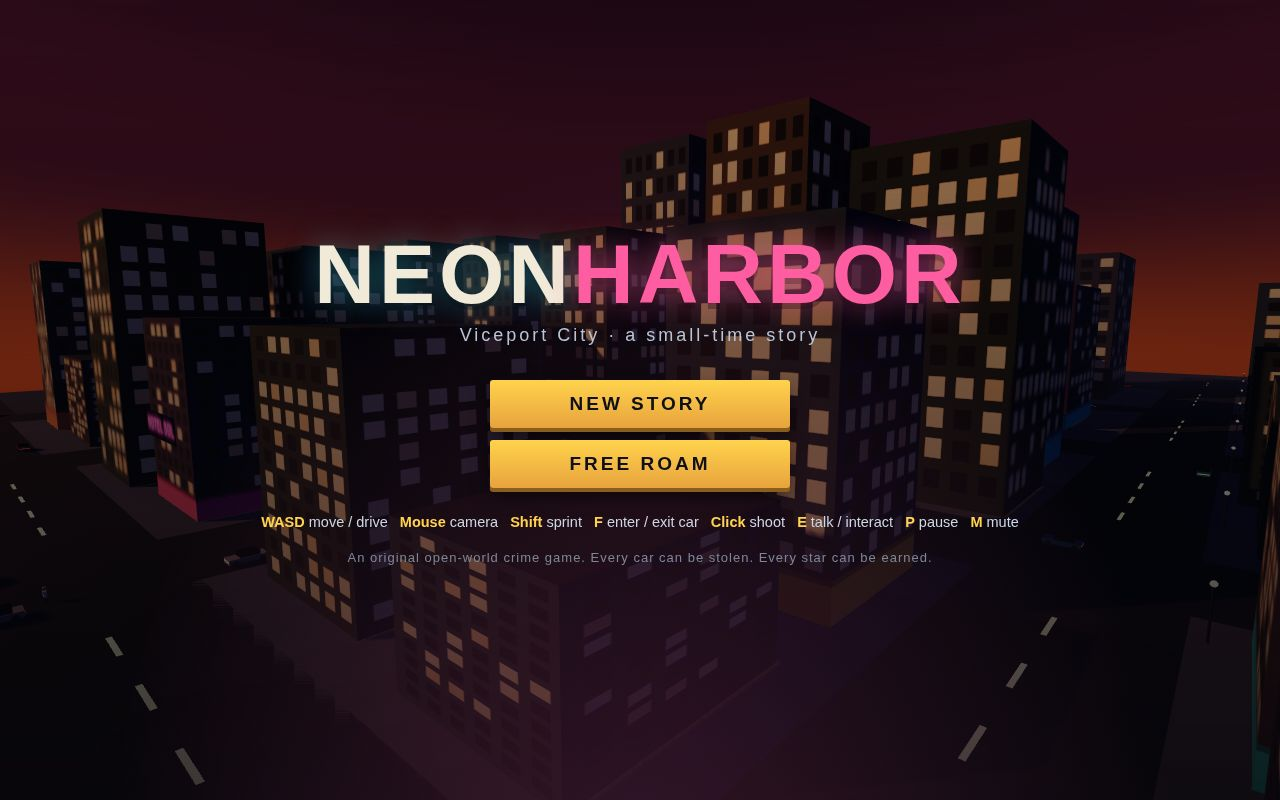
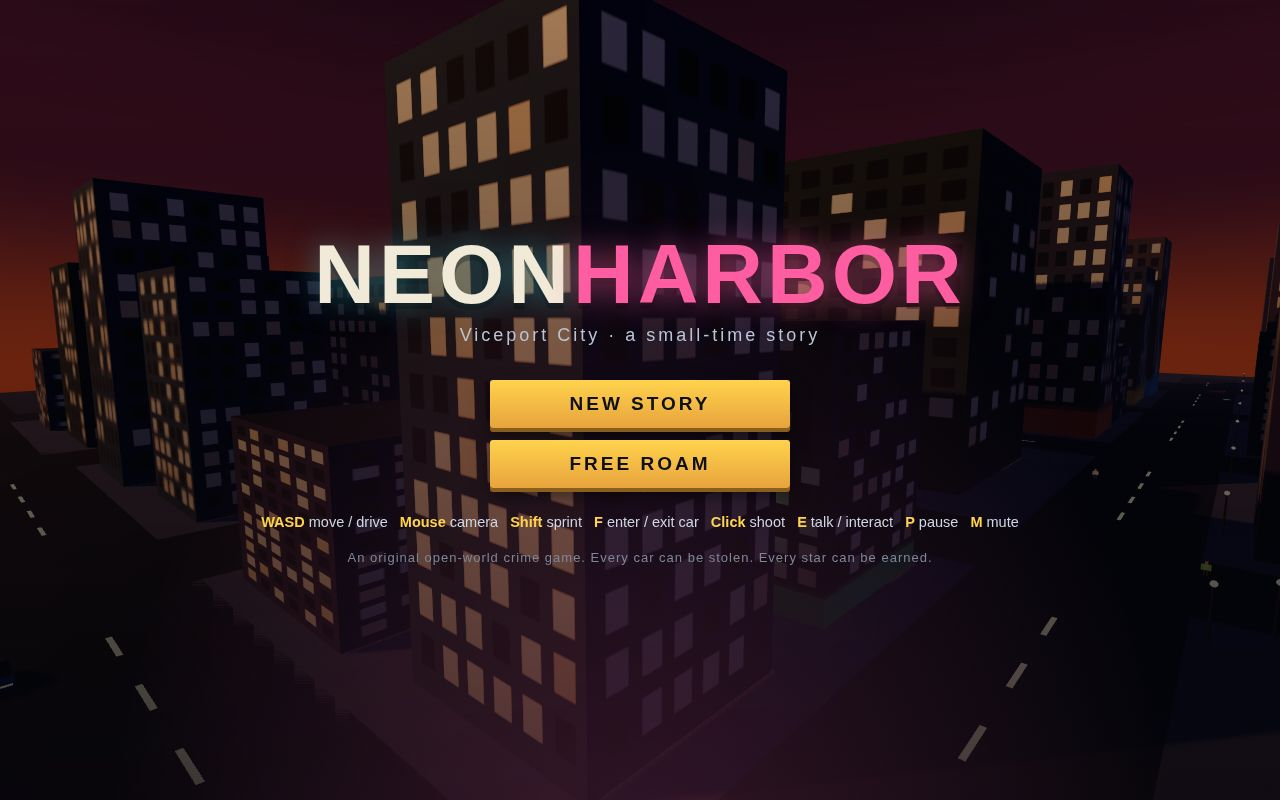
Re-author Neon Harbor in a recorded session: brighter dusk lighting, fresh screenshots
Every counted file rewritten: game sources, hand-in programs, README.
Small improvements folded in: hemisphere light 0.85 -> 1.0 and exposure
1.15 (scenes read dark), stride bob for Marlo, an extra neon sign and car
paint, save.hasSave(), wider ped minimap blips, longer tracer fade.

diff --git a/game/src/combat.js b/game/src/combat.js
@@ -39,7 +39,7 @@ export function createCombat(scene, hooks) {
     const geo = new THREE.BufferGeometry().setFromPoints([origin.clone().addScaledVector(dir, 1.2), end]);
     const line = new THREE.Line(geo, tracerMat.clone());
     scene.add(line);
-    tracers.push({ line, life: 0.06 });
+    tracers.push({ line, life: 0.075 });
     sfx.shot();
     hooks.police.reportCrime('shot');
     scarePeds(state.peds, state.player.pos, 30);
@@ -58,7 +58,7 @@ export function createCombat(scene, hooks) {
       cooldown -= dt;
       for (let i = tracers.length - 1; i >= 0; i--) {
         tracers[i].life -= dt;
-        tracers[i].line.material.opacity = Math.max(0, tracers[i].life / 0.06) * 0.9;
+        tracers[i].line.material.opacity = Math.max(0, tracers[i].life / 0.075) * 0.9;
         if (tracers[i].life <= 0) { scene.remove(tracers[i].line); tracers.splice(i, 1); }
       }
       if (wantFire && cooldown <= 0 && !state.player.inCar) {

diff --git a/game/style.css b/game/style.css
@@ -5,7 +5,7 @@ body { font-family: "Segoe UI", Arial, sans-serif; color: #f2ead8; }
 .hidden { display: none !important; }
 
 /* ---------- HUD ---------- */
-#hud { position: fixed; inset: 0; pointer-events: none; z-index: 5; }
+#hud { position: fixed; inset: 0; pointer-events: none; z-index: 5; user-select: none; -webkit-user-select: none; }
 #minimap-wrap { position: absolute; left: 18px; bottom: 18px; width: 216px; height: 216px; }
 #minimap { width: 216px; height: 216px; border-radius: 50%; border: 3px solid rgba(10,10,16,.85); box-shadow: 0 0 0 2px rgba(232,182,76,.55), 0 6px 24px rgba(0,0,0,.5); background: #10131f; }
 #wanted { position: absolute; top: -14px; right: -6px; font-size: 24px; letter-spacing: 2px; color: #ffd34d; text-shadow: 0 0 6px rgba(0,0,0,.9), 0 2px 2px #000; }

diff --git a/game/src/world.js b/game/src/world.js
@@ -10,7 +10,7 @@ export function createWorld(canvas) {
   renderer.shadowMap.type = THREE.PCFSoftShadowMap;
   renderer.outputColorSpace = THREE.SRGBColorSpace;
   renderer.toneMapping = THREE.ACESFilmicToneMapping;
-  renderer.toneMappingExposure = 1.12;
+  renderer.toneMappingExposure = 1.15;
 
   const scene = new THREE.Scene();
   scene.background = new THREE.Color(0x2a2340);
@@ -38,7 +38,7 @@ export function createWorld(canvas) {
   sun.shadow.camera.far = 1200;
   sun.shadow.bias = -0.0004;
   scene.add(sun);
-  scene.add(new THREE.HemisphereLight(0x8a7bb8, 0x1c2438, 0.85));
+  scene.add(new THREE.HemisphereLight(0x8a7bb8, 0x1c2438, 1.0));
   const fill = new THREE.DirectionalLight(0x5a76c8, 0.5);
   fill.position.set(200, 120, -260);
   scene.add(fill);

diff --git a/serve.ts b/serve.ts
@@ -6,7 +6,7 @@ import { join, extname } from 'node:path';
 import { fileURLToPath } from 'node:url';
 
 const root = join(fileURLToPath(new URL('.', import.meta.url)), 'game');
-const TYPES = { '.html': 'text/html', '.js': 'text/javascript', '.css': 'text/css', '.json': 'application/json', '.png': 'image/png', '.jpg': 'image/jpeg' };
+const TYPES = { '.html': 'text/html', '.js': 'text/javascript', '.css': 'text/css', '.json': 'application/json', '.png': 'image/png', '.jpg': 'image/jpeg', '.svg': 'image/svg+xml', '.webp': 'image/webp', '.ico': 'image/x-icon' };
 
 createServer((req, res) => {
   let path = decodeURIComponent((req.url || '/').split('?')[0]);

diff --git a/game/src/city.js b/game/src/city.js
@@ -43,7 +43,7 @@ function signTexture(text, color) {
 
 const FACADE_BASES = ['#3a3f52', '#4a3a48', '#2f4256', '#54453a', '#3d3150', '#2c3a3a'];
 const NEON = ['#ff5da2', '#39c2d7', '#ffd34d', '#7dd87d', '#ff8a4a'];
-const SIGNS = ['HOTEL SOL', 'BAR LUNA', 'CLUB NOVA', 'DINER 24H', 'VICE GYM', 'PAWN ★', 'HOTEL SOL', 'BAR LUNA', 'NOODLE+', 'CINEMA'];
+const SIGNS = ['HOTEL SOL', 'BAR LUNA', 'CLUB NOVA', 'DINER 24H', 'VICE GYM', 'PAWN ★', 'HOTEL SOL', 'BAR LUNA', 'NOODLE+', 'CINEMA', 'LIQUOR'];
 
 export function buildCity(scene) {
   const colliders = []; // {minX, maxX, minZ, maxZ}

diff --git a/game/src/input.js b/game/src/input.js
@@ -4,7 +4,7 @@ export const keys = {};
 export const pressed = {};
 export const mouse = { dx: 0, dy: 0, down: false, clicked: false };
 
-const GAME_KEYS = new Set(['KeyW', 'KeyA', 'KeyS', 'KeyD', 'KeyF', 'KeyE', 'KeyP', 'KeyM', 'Space', 'ShiftLeft', 'ShiftRight', 'ArrowUp', 'ArrowDown', 'ArrowLeft', 'ArrowRight']);
+const GAME_KEYS = new Set(['KeyW', 'KeyA', 'KeyS', 'KeyD', 'KeyF', 'KeyE', 'KeyP', 'KeyM', 'Space', 'Enter', 'ShiftLeft', 'ShiftRight', 'ArrowUp', 'ArrowDown', 'ArrowLeft', 'ArrowRight']);
 
 export function initInput(canvas) {
   addEventListener('keydown', (e) => {

diff --git a/game/src/hud.js b/game/src/hud.js
@@ -100,7 +100,7 @@ export function drawMinimap(state) {
     if (c.police) blip(c.pos.x, c.pos.z, (performance.now() % 700 < 350) ? '#ff4a4a' : '#4a7aff', 3.4);
     else blip(c.pos.x, c.pos.z, 'rgba(200,205,220,.5)', 2);
   }
-  for (const ped of state.peds) blip(ped.pos.x, ped.pos.z, 'rgba(220,190,150,.55)', 1.8);
+  for (const ped of state.peds) blip(ped.pos.x, ped.pos.z, 'rgba(220,190,150,.55)', 2);
   if (state.target) {
     const [tx, ty] = toMap(state.target.x, state.target.z);
     const cx = Math.max(10, Math.min(206, tx)), cy = Math.max(10, Math.min(206, ty));

diff --git a/game/src/missions.js b/game/src/missions.js
@@ -171,7 +171,7 @@ export function createMissions(scene, state, hooks) {
       if (b === a) b = SPOTS.clubNova;
       this.jobCount++;
       this.oddStage = { kind: 'drive', atPos: a, text: `Odd job #${this.jobCount}: pick up at the marker` };
-      this.oddSecond = { kind: 'drive', atPos: b, text: 'Now drop it at the second marker', reward: 120 + ((Math.random() * 160) | 0) };
+      this.oddSecond = { kind: 'drive', atPos: b, text: 'Now drop it at the second marker', reward: 130 + ((Math.random() * 160) | 0) };
       this.oddPhase = 0;
     },
 

diff --git a/game/src/main.js b/game/src/main.js
@@ -235,6 +235,6 @@ function frame() {
 frame();
 
 // Screenshot staging + a handle for scripted captures (see shots.json in the kit).
-window.neonharbor = { state, player, cars, peds, police, missions, startGame, scene, camera, camRig };
+window.neonharbor = { state, player, cars, peds, police, missions, startGame, respawn, scene, camera, camRig };
 const shot = new URLSearchParams(location.search).get('shot');
 if (shot) { $('menu').classList.add('hidden'); hud.setHudVisible(true); state.mode = 'playing'; missions.startAt(0); }

diff --git a/game/src/police.js b/game/src/police.js
@@ -5,7 +5,7 @@ import { makeCar, placeCar, spinWheels } from './cars.js';
 import { LINES, CITY_EDGE, collideCircle } from './city.js';
 
 const CRIME_STARS = { steal: 1, ram: 1, hitPed: 2, shot: 1, shootPed: 2, missionHeat: 1 };
-const CRIME_COOLDOWN = { steal: 2, ram: 1.4, hitPed: 1, shot: 0.9, shootPed: 1, missionHeat: 5 };
+const CRIME_COOLDOWN = { steal: 2, ram: 1.2, hitPed: 1, shot: 0.9, shootPed: 1, missionHeat: 5 };
 
 export function createPolice(scene, cars, hooks) {
   const cops = [];

diff --git a/game/src/peds.js b/game/src/peds.js
@@ -4,7 +4,7 @@
 import * as THREE from 'three';
 import { LINES, ROAD_HALF, CITY_EDGE, collideCircle } from './city.js';
 
-const SHIRTS = [0xe8e4da, 0x39c2d7, 0x7dd87d, 0xffd34d, 0xc26a2e, 0x8a4ac2, 0xd84a7a, 0x4a6a8a];
+const SHIRTS = [0xe8e4da, 0x39c2d7, 0x7dd87d, 0xffd34d, 0xc26a2e, 0x8a4ac2, 0xd84a7a, 0x4a6a8a, 0xf2f2f2];
 const PANTS = [0x2c3444, 0x4a3a2c, 0x22242c, 0x5a4a5e];
 const WALK = ROAD_HALF + 2.6; // sidewalk offset from a road centre line
 

diff --git a/game/src/player.js b/game/src/player.js
@@ -48,6 +48,7 @@ export function updatePlayer(p, dt, move, colliders) {
   p.speedNow = mag > 0.05 ? speed : 0;
   collideCircle(p.pos, 0.55, colliders);
   p.mesh.position.copy(p.pos);
+  p.mesh.position.y = mag > 0.05 ? Math.abs(Math.sin(p.walkPhase)) * 0.045 : 0; // a little stride bob
   p.mesh.rotation.y = p.heading;
   const swing = Math.sin(p.walkPhase) * (mag > 0.05 ? 0.55 : 0);
   p.limbs.legL.rotation.x = swing; p.limbs.legR.rotation.x = -swing;
